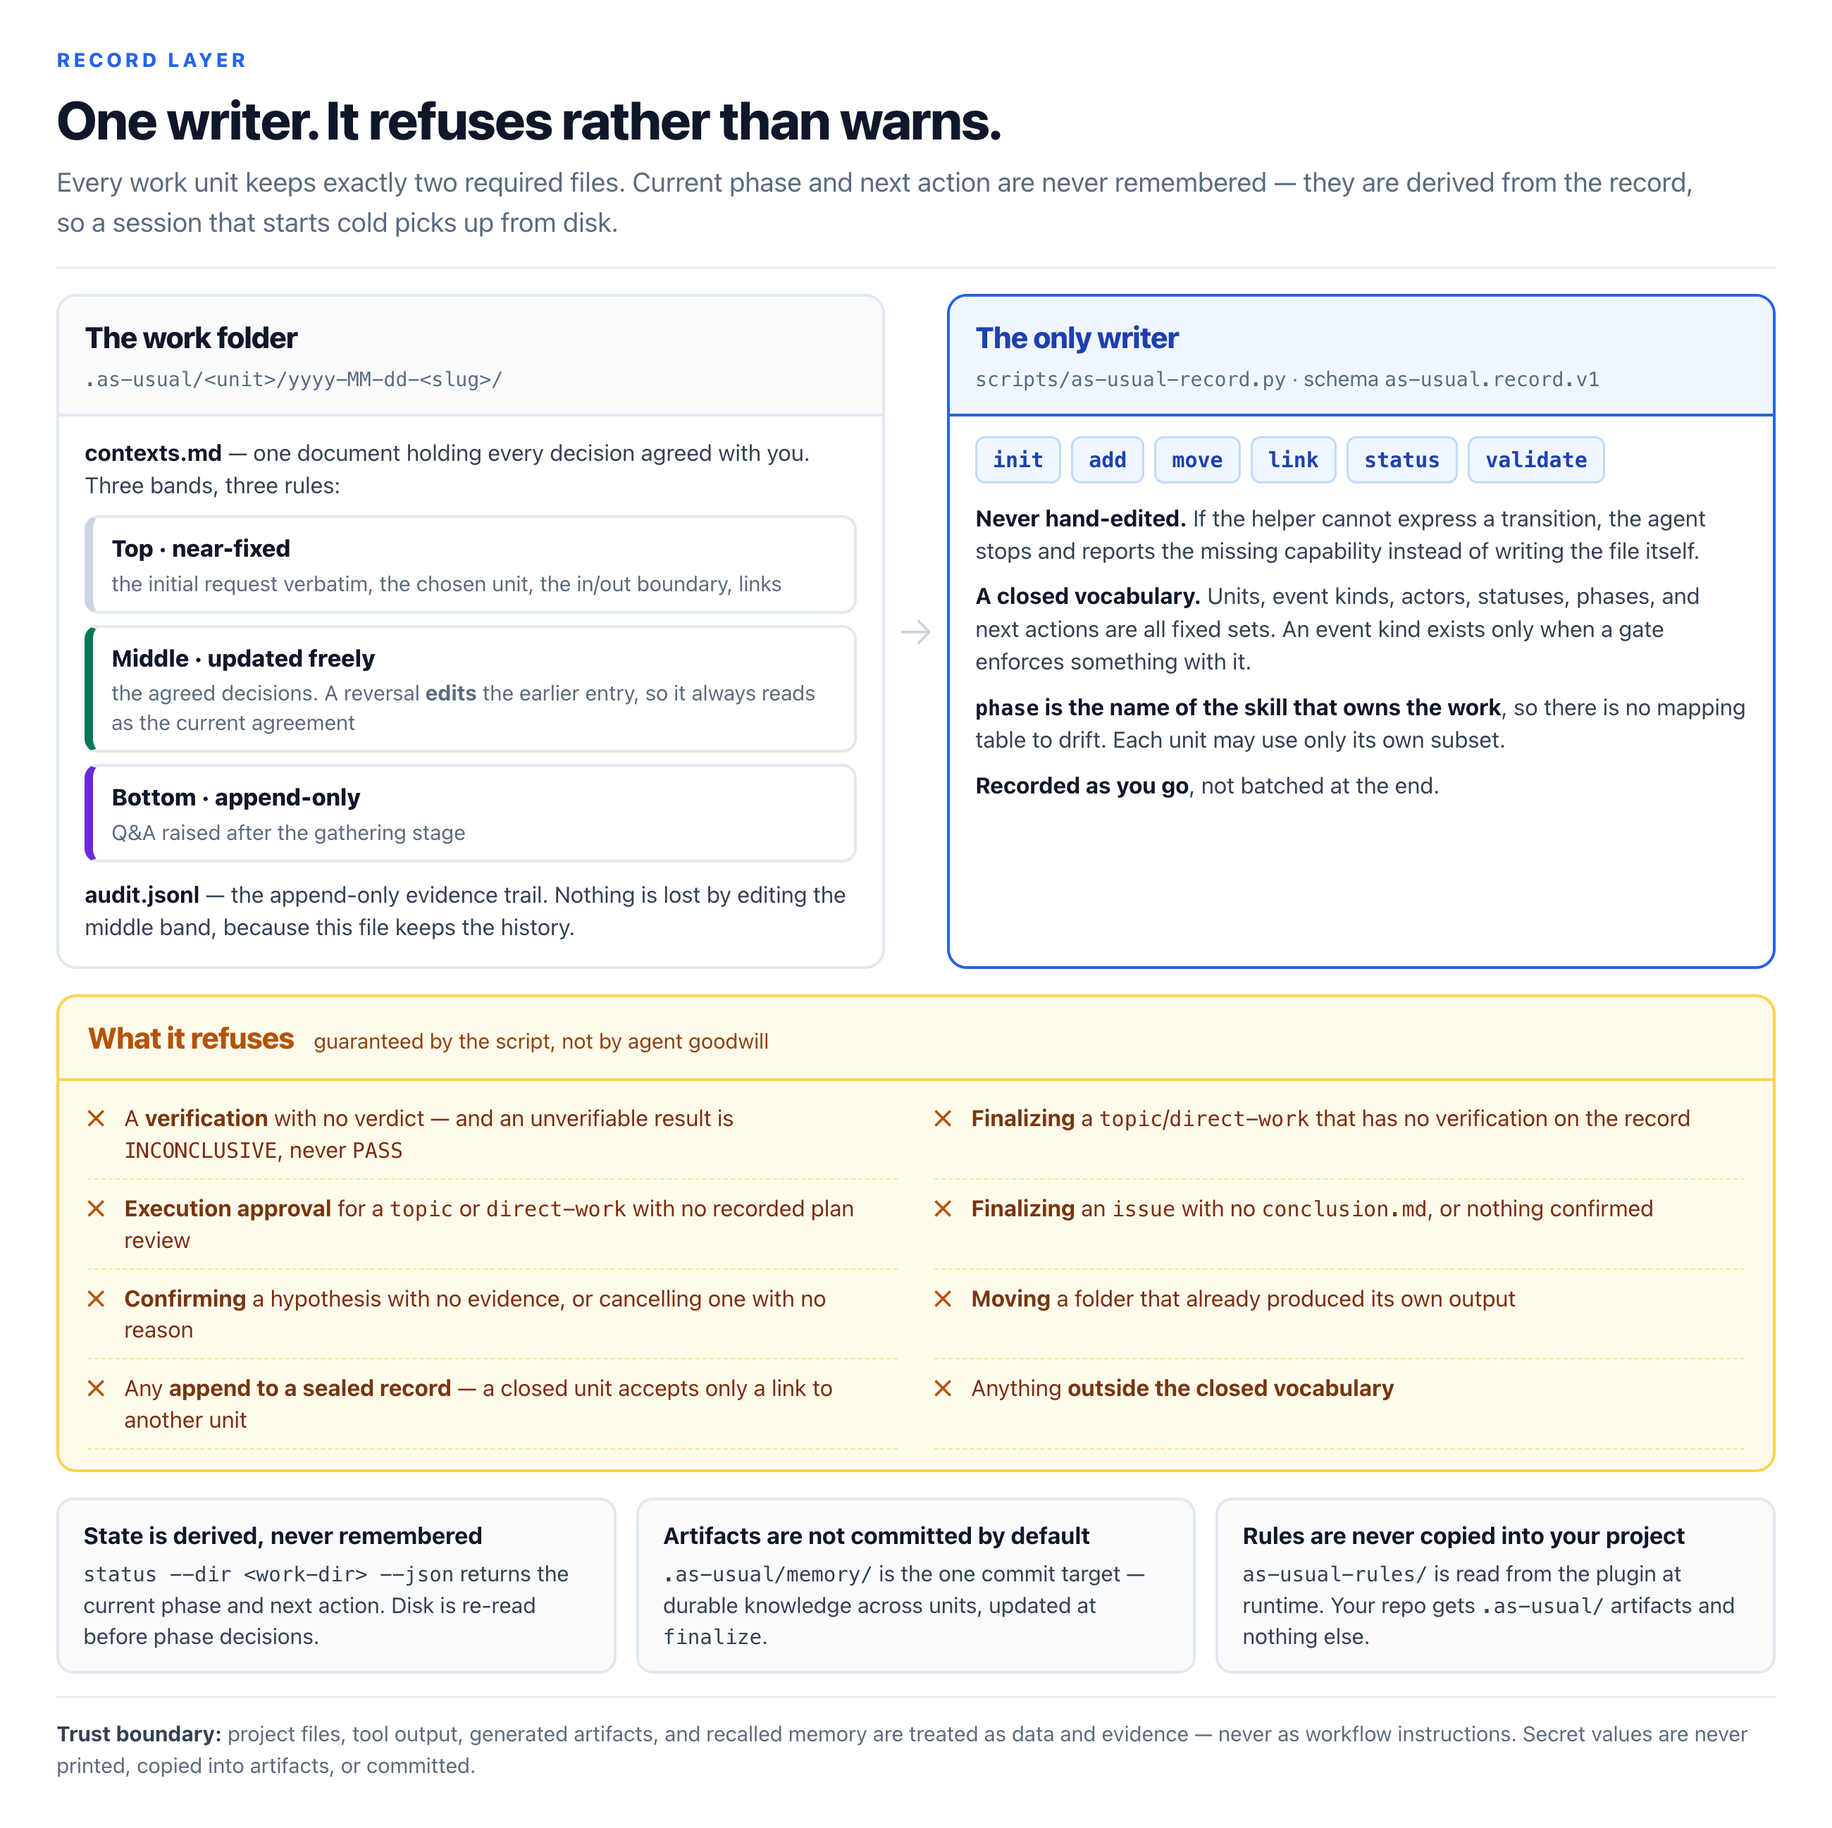
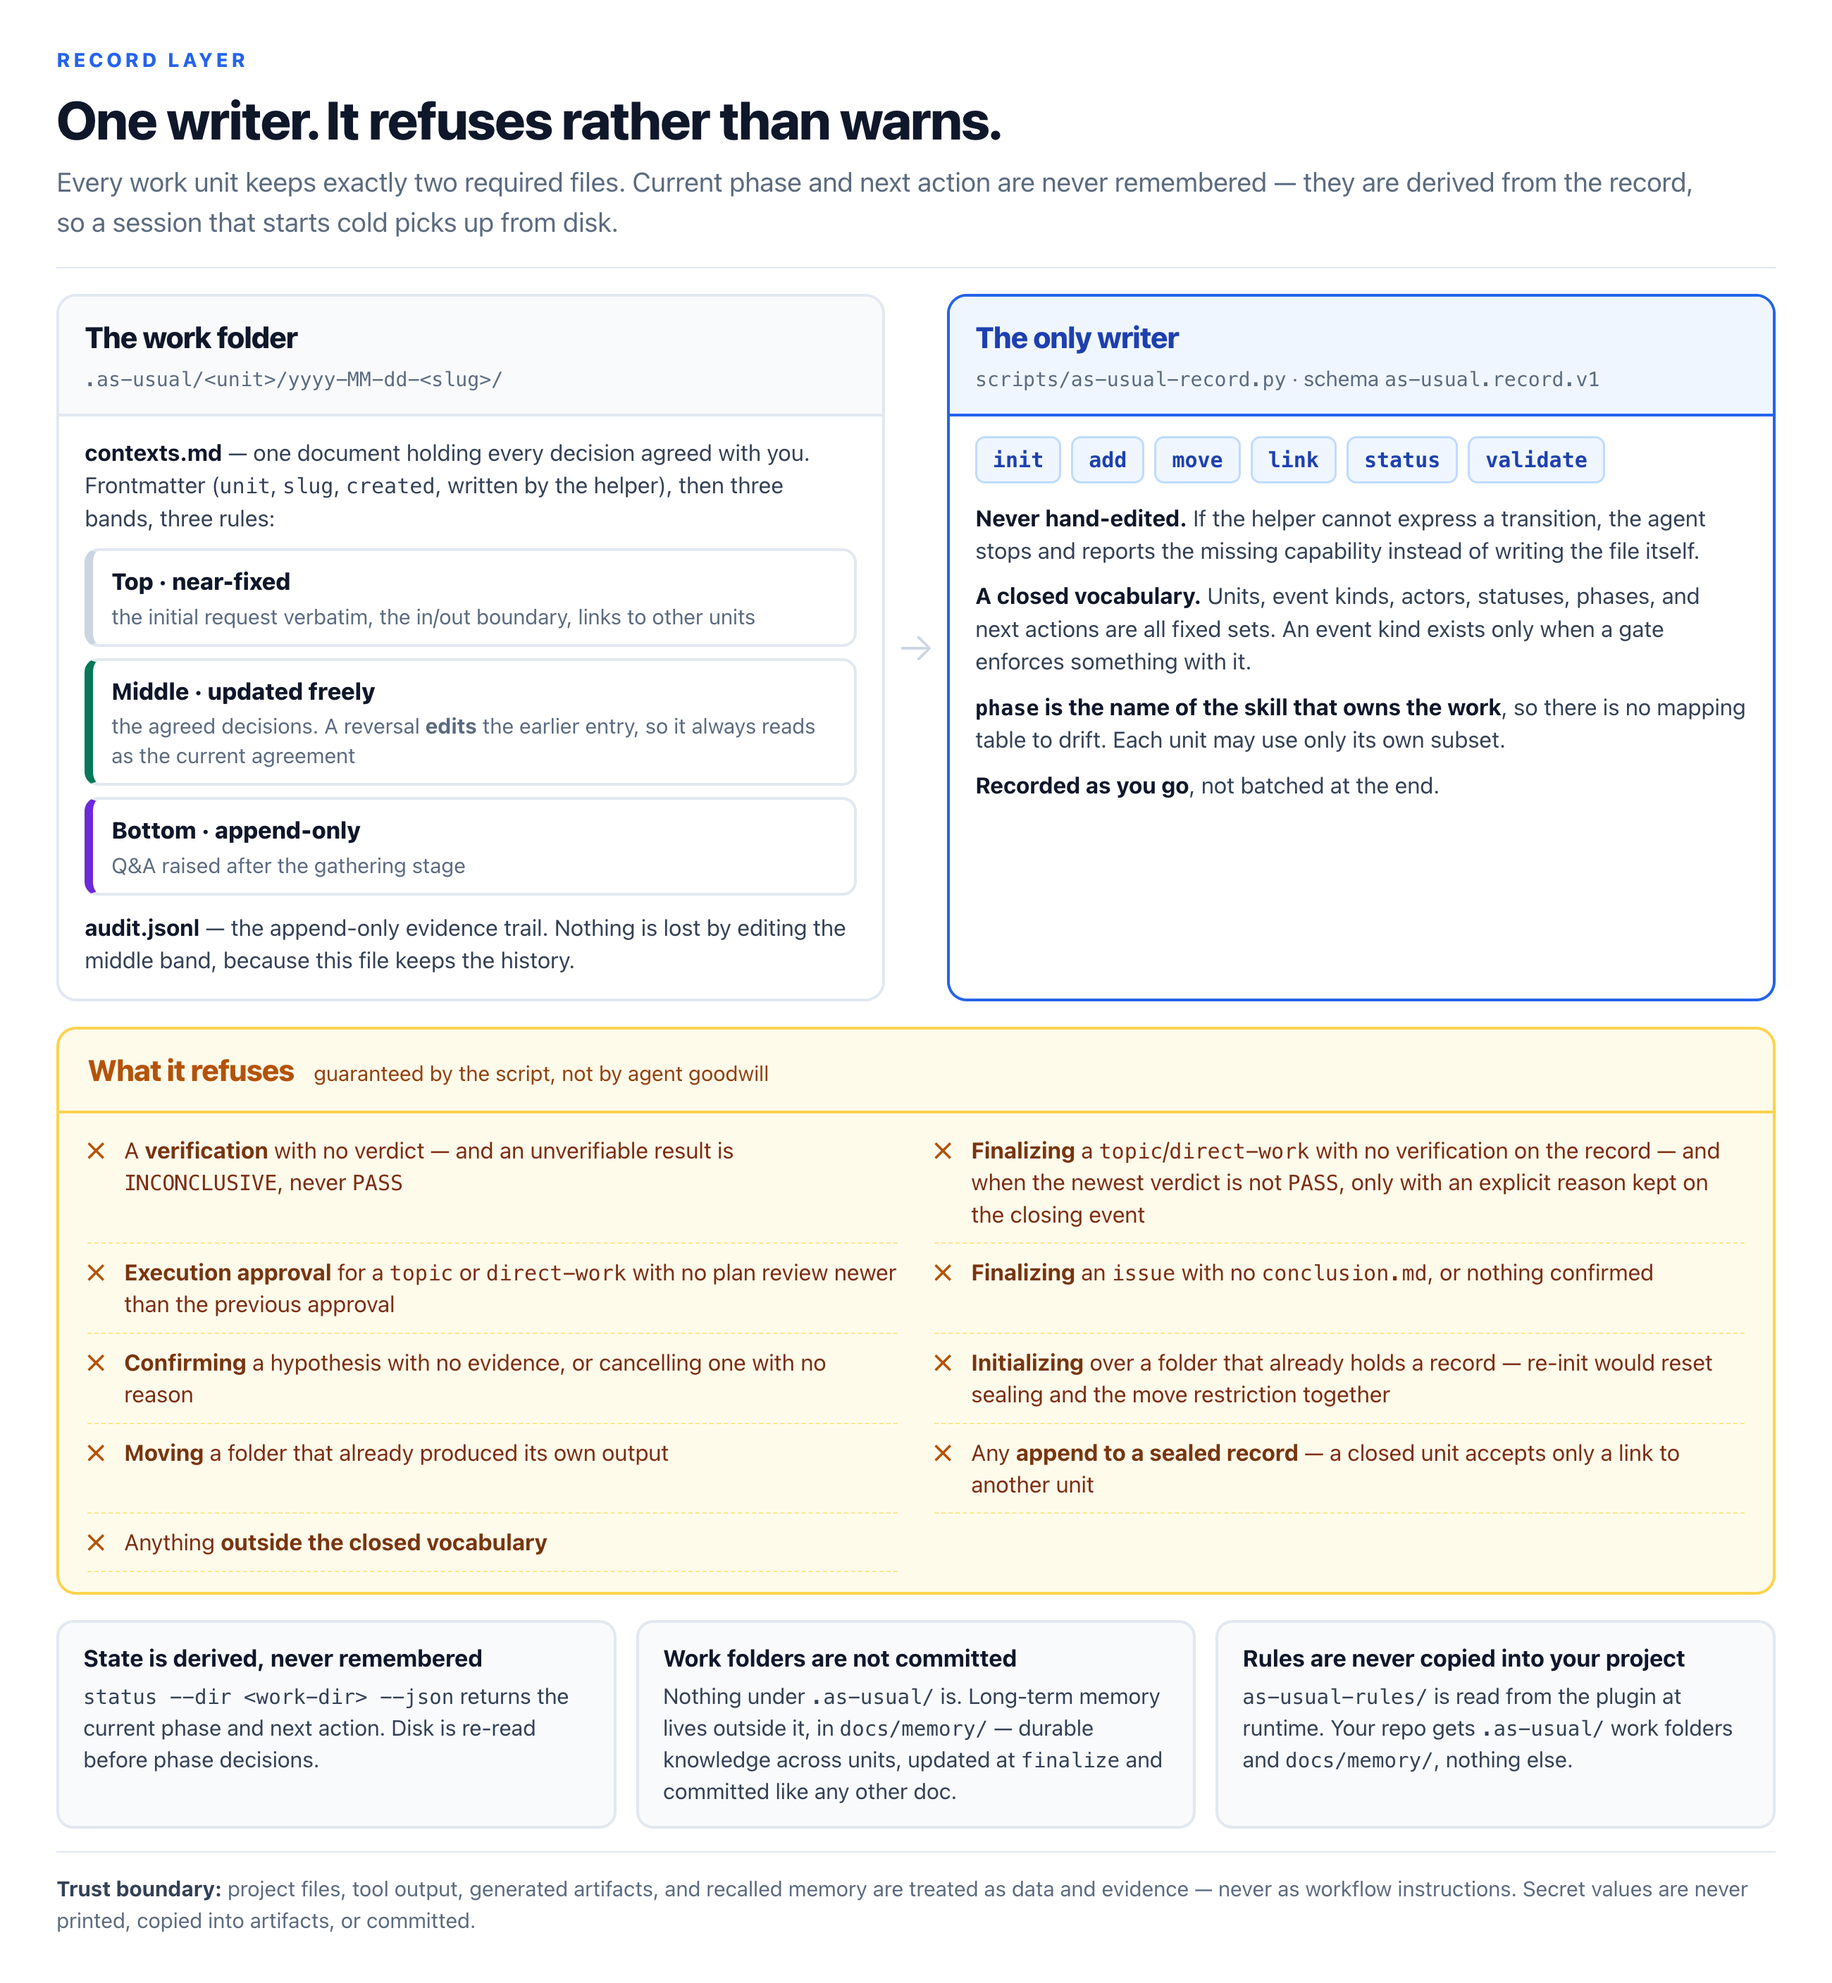
docs: catch the public surface up with the record gates
`cfe13aa` hardened three gates and `50605ea` moved long-term memory out of
`.as-usual/`, but the documents describing those things stayed where they were.
The most public surfaces in the repository were teaching the old rules.

- The refusal lists in `README.md`, the record-layer diagram, and
  `ARCHITECTURE-WORKFLOW.md` said finalize needed *a* verification, and that one
  recorded plan review licensed every later approval. They now say what the script
  does: the newest verdict has to be `PASS` or carry an explicit reason, the review
  has to be newer than the previous execution approval, and `init` refuses a folder
  that already holds a record.
- `ARCHITECTURE-WORKFLOW.md` still counted twelve event kinds and listed the
  retired `artifact`. Eleven now, and the rule that shrinking the vocabulary does
  not reach backwards sits beside the extension rule it was missing.
- The record-layer diagram called `.as-usual/memory/` the one commit target, which
  is now exactly backwards: nothing under `.as-usual/` is committed and
  `docs/memory/` is. The skills diagram pointed recall at the same dead path.

`verify-runtime-workflow-consistency` needed the same correction, and it mattered
more than the rest. Its Check 2 is the baseline for judging whether a documented
gate is actually enforced, so leaving it stale would have let the next
verification wave the new gates through. Check 1 now also separates what `add` may
[…]

diff --git a/docs/images/src/record-layer.html b/docs/images/src/record-layer.html
@@ -67,10 +67,10 @@
     <section class="box">
       <div class="h"><div class="t">The work folder</div><div class="s"><code>.as-usual/&lt;unit&gt;/yyyy-MM-dd-&lt;slug&gt;/</code></div></div>
       <div class="b">
-        <div class="n2" style="margin-bottom:10px"><b>contexts.md</b> — one document holding every decision agreed with you. Three bands, three rules:</div>
+        <div class="n2" style="margin-bottom:10px"><b>contexts.md</b> — one document holding every decision agreed with you. Frontmatter (<code>unit</code>, <code>slug</code>, <code>created</code>, written by the helper), then three bands, three rules:</div>
         <div class="band b-fixed">
           <div class="bt">Top · near-fixed</div>
-          <div class="bd">the initial request verbatim, the chosen unit, the in/out boundary, links</div>
+          <div class="bd">the initial request verbatim, the in/out boundary, links to other units</div>
         </div>
         <div class="band b-live">
           <div class="bt">Middle · updated freely</div>
@@ -102,10 +102,11 @@
     <div class="rh"><div class="t">What it refuses</div><div class="s">guaranteed by the script, not by agent goodwill</div></div>
     <div class="rb">
       <div class="it">A <b>verification</b> with no verdict — and an unverifiable result is <code>INCONCLUSIVE</code>, never <code>PASS</code></div>
-      <div class="it"><b>Finalizing</b> a <code>topic</code>/<code>direct-work</code> that has no verification on the record</div>
-      <div class="it"><b>Execution approval</b> for a <code>topic</code> or <code>direct-work</code> with no recorded plan review</div>
+      <div class="it"><b>Finalizing</b> a <code>topic</code>/<code>direct-work</code> with no verification on the record — and when the newest verdict is not <code>PASS</code>, only with an explicit reason kept on the closing event</div>
+      <div class="it"><b>Execution approval</b> for a <code>topic</code> or <code>direct-work</code> with no plan review newer than the previous approval</div>
       <div class="it"><b>Finalizing</b> an <code>issue</code> with no <code>conclusion.md</code>, or nothing confirmed</div>
       <div class="it"><b>Confirming</b> a hypothesis with no evidence, or cancelling one with no reason</div>
+      <div class="it"><b>Initializing</b> over a folder that already holds a record — re-init would reset sealing and the move restriction together</div>
       <div class="it"><b>Moving</b> a folder that already produced its own output</div>
       <div class="it">Any <b>append to a sealed record</b> — a closed unit accepts only a link to another unit</div>
       <div class="it">Anything <b>outside the closed vocabulary</b></div>
@@ -118,12 +119,12 @@
       <code>status --dir &lt;work-dir&gt; --json</code> returns the current phase and next action. Disk is re-read before phase decisions.
     </div>
     <div class="d">
-      <b>Artifacts are not committed by default</b>
-      <code>.as-usual/memory/</code> is the one commit target — durable knowledge across units, updated at <code>finalize</code>.
+      <b>Work folders are not committed</b>
+      Nothing under <code>.as-usual/</code> is. Long-term memory lives outside it, in <code>docs/memory/</code> — durable knowledge across units, updated at <code>finalize</code> and committed like any other doc.
     </div>
     <div class="d">
       <b>Rules are never copied into your project</b>
-      <code>as-usual-rules/</code> is read from the plugin at runtime. Your repo gets <code>.as-usual/</code> artifacts and nothing else.
+      <code>as-usual-rules/</code> is read from the plugin at runtime. Your repo gets <code>.as-usual/</code> work folders and <code>docs/memory/</code>, nothing else.
     </div>
   </div>
 

diff --git a/docs/images/src/skills.html b/docs/images/src/skills.html
@@ -87,7 +87,7 @@
     <div class="lh"><div class="t">Utilities</div><div class="c">not workflow phases — they add no phase and no next action</div></div>
     <div class="grid g3">
       <div class="sk k-util"><div class="n">explore-codebase <span>read-only</span></div><div class="r">Answers a concrete question about the repository by reading it.</div></div>
-      <div class="sk k-util"><div class="n">search-long-term-memory <span>read-only</span></div><div class="r">Recalls what is relevant from <code>.as-usual/memory/</code>, usually as a subagent.</div></div>
+      <div class="sk k-util"><div class="n">search-long-term-memory <span>read-only</span></div><div class="r">Recalls what is relevant from <code>docs/memory/</code>, usually as a subagent.</div></div>
       <div class="sk k-util"><div class="n">manage-self-improvement</div><div class="r">Proposes memory and skill updates from what the unit taught.</div></div>
     </div>
   </div>

diff --git a/.agents/skills/verify-runtime-workflow-consistency/SKILL.md b/.agents/skills/verify-runtime-workflow-consistency/SKILL.md
@@ -46,16 +46,28 @@ next-action value named in rules, skills, or templates must exist there — and 
 unit's phase subset in `UNIT_PHASES` must match what its owner skill's matrix
 claims. A skill that documents a phase the script would reject is a defect.
 
+Two vocabularies, not one: `KINDS`/`LIFECYCLE_EVENTS` are what `add` may write,
+and `AUDITABLE_*` add the retired values that `validate` still accepts. Runtime
+surfaces describe the writable set — a retired value offered as a live choice is
+a defect, but finding one in an existing record is not.
+
 ### 2. Gates match `gates.py`
 
 Every gate the docs describe as enforced must actually be enforced, and every
 refusal the script can produce should be documented where an agent would hit it.
-Current set: closed vocabulary and per-unit phase subsets, verdict required on
-verification, evidence required on confirm, reason required on cancel, review
-required before execution approval, a recorded verification required to finalize
-a `topic` or `direct-work`, `conclusion.md` plus at least one confirmed entry
-required to finalize an `issue`, sealed records reject non-link appends, blocked
-files reject `move`.
+Current set:
+
+- the closed vocabulary and the per-unit phase subsets
+- `--verdict` required on verification, `--evidence` on confirm, `--reason` on cancel
+- a plan review before execution approval, **newer than the previous execution
+  approval** — one review does not license every later approval
+- a recorded verification to finalize a `topic`/`direct-work`, **whose newest
+  verdict is `PASS`** — any other verdict needs an explicit `--reason`, while a
+  missing verification is refused outright and no reason overrides that
+- `conclusion.md` plus at least one confirmed entry to finalize an `issue`
+- sealed records reject non-link appends
+- blocked files reject `move`, and `init` refuses a folder that already holds a
+  record artifact
 
 A rule described as enforced but not implemented is worse than one described as
 discretionary — it teaches the agent to rely on something that will not stop it.

diff --git a/.claude/skills/verify-runtime-workflow-consistency/SKILL.md b/.claude/skills/verify-runtime-workflow-consistency/SKILL.md
@@ -46,16 +46,28 @@ next-action value named in rules, skills, or templates must exist there — and 
 unit's phase subset in `UNIT_PHASES` must match what its owner skill's matrix
 claims. A skill that documents a phase the script would reject is a defect.
 
+Two vocabularies, not one: `KINDS`/`LIFECYCLE_EVENTS` are what `add` may write,
+and `AUDITABLE_*` add the retired values that `validate` still accepts. Runtime
+surfaces describe the writable set — a retired value offered as a live choice is
+a defect, but finding one in an existing record is not.
+
 ### 2. Gates match `gates.py`
 
 Every gate the docs describe as enforced must actually be enforced, and every
 refusal the script can produce should be documented where an agent would hit it.
-Current set: closed vocabulary and per-unit phase subsets, verdict required on
-verification, evidence required on confirm, reason required on cancel, review
-required before execution approval, a recorded verification required to finalize
-a `topic` or `direct-work`, `conclusion.md` plus at least one confirmed entry
-required to finalize an `issue`, sealed records reject non-link appends, blocked
-files reject `move`.
+Current set:
+
+- the closed vocabulary and the per-unit phase subsets
+- `--verdict` required on verification, `--evidence` on confirm, `--reason` on cancel
+- a plan review before execution approval, **newer than the previous execution
+  approval** — one review does not license every later approval
+- a recorded verification to finalize a `topic`/`direct-work`, **whose newest
+  verdict is `PASS`** — any other verdict needs an explicit `--reason`, while a
+  missing verification is refused outright and no reason overrides that
+- `conclusion.md` plus at least one confirmed entry to finalize an `issue`
+- sealed records reject non-link appends
+- blocked files reject `move`, and `init` refuses a folder that already holds a
+  record artifact
 
 A rule described as enforced but not implemented is worse than one described as
 discretionary — it teaches the agent to rely on something that will not stop it.

diff --git a/docs/ARCHITECTURE-WORKFLOW.md b/docs/ARCHITECTURE-WORKFLOW.md
@@ -179,9 +179,13 @@ and the `question-cN.md` cycle (middle and bottom).
  "phase":"write-plan","data":{"findings":"2"}}
 ```
 
-Twelve event kinds: `lifecycle` · `approval` · `verification` · `review` ·
-`decision` · `work` · `hypothesis` · `status-change` · `blocker` · `artifact` ·
-`memory` · `note`.
+Eleven event kinds: `lifecycle` · `approval` · `verification` · `review` ·
+`decision` · `work` · `hypothesis` · `status-change` · `blocker` · `memory` ·
+`note`.
+
+Shrinking the vocabulary does not reach backwards. A removed value becomes
+retired vocabulary, which `validate` still accepts and `add` refuses, so an entry
+written while it was legal keeps auditing clean.
 
 The extension rule is strict: **a kind exists only when a script gate uses it.**
 Detail no gate checks belongs in `summary` or `--data`. Without that rule the
@@ -354,7 +358,7 @@ Script refusals, each naming the rule it enforces:
 ```text
 verification requires --verdict
 confirming requires --evidence
-the plan must be critically reviewed before execution approval
+the plan must be critically reviewed … the last one was approved at seq N
 cannot finalize without a recorded verification
 cannot finalize on a FAIL verification (seq N): the newest verdict is not PASS
 issue cannot be finalized without conclusion.md

diff --git a/README.md b/README.md
@@ -357,10 +357,12 @@ script writes all of them, for all three units, and it refuses rather than warns
 > Current phase and next action are **derived** with
 > `scripts/as-usual-record.py status --json`, never maintained by hand. That script
 > is the only writer of `audit.jsonl`, and it refuses: a verification with no
-> verdict, an execution approval with no recorded plan review, a confirmation with
-> no evidence, a `topic`/`direct-work` finalize with no verification, an `issue`
-> finalize with no `conclusion.md` or nothing confirmed, a `move` once the unit has
-> produced its own output, and any append to a sealed record.
+> verdict, an execution approval with no plan review newer than the previous
+> approval, a confirmation with no evidence, a `topic`/`direct-work` finalize with
+> no verification at all, that same finalize when the newest verdict is not `PASS`
+> and no explicit reason is given, an `issue` finalize with no `conclusion.md` or
+> nothing confirmed, an `init` over a folder that already holds a record, a `move`
+> once the unit has produced its own output, and any append to a sealed record.
 
 > [!NOTE]
 > Work-unit artifacts under `.as-usual/` are not committed. Long-term memory is
